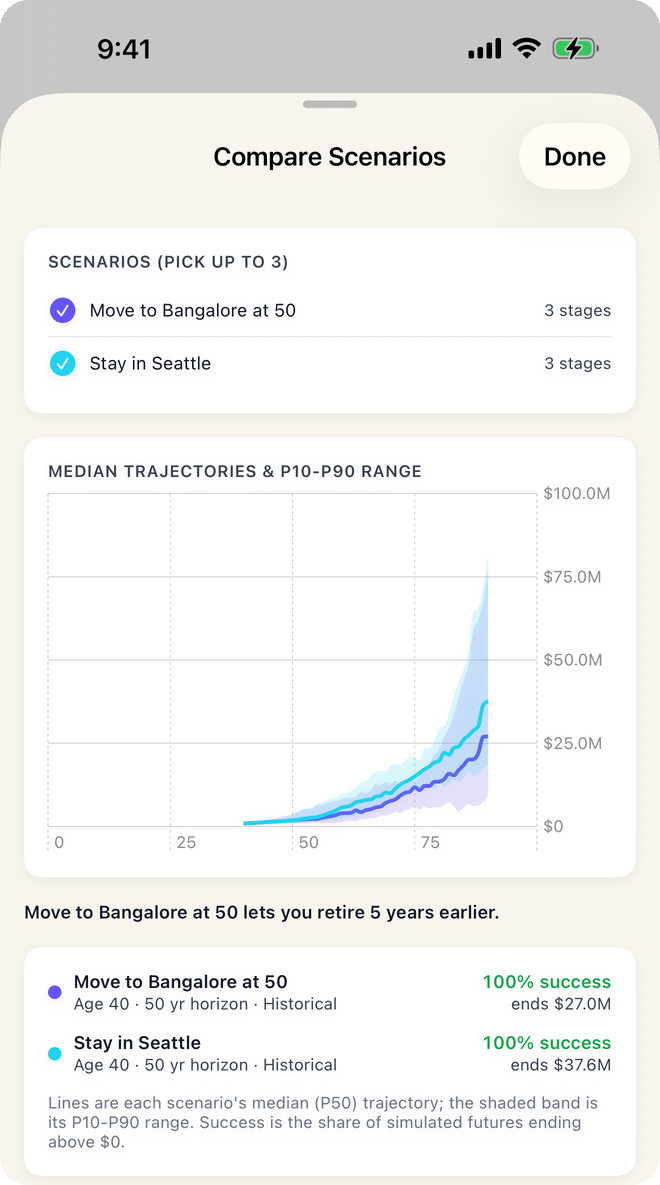
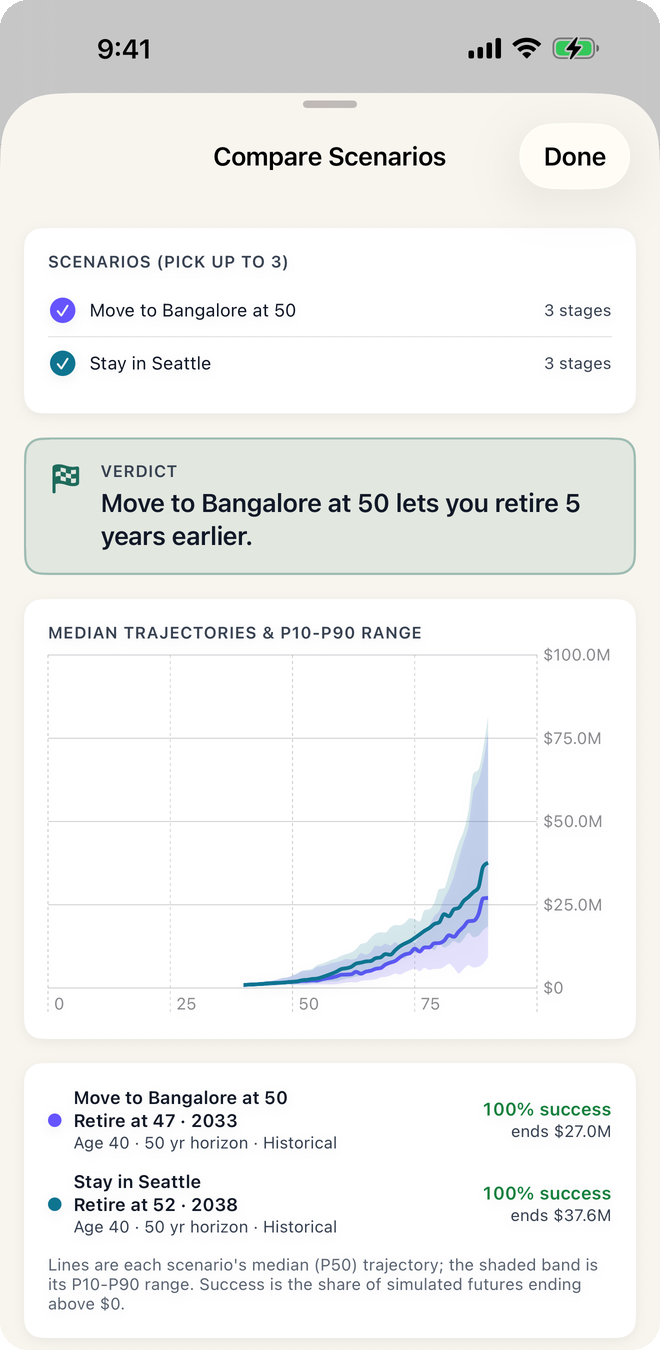
Sync site from Sanchaya@fddb978

diff --git a/retire-in-india-vs-us.html b/retire-in-india-vs-us.html
@@ -186,11 +186,11 @@
   <li>On <strong>My Plan</strong>, make sure your working-years stage ends at the age you would move. Add a second location stage for Bangalore, or any of the 49 cities, from that age to the end, with zero income.</li>
   <li>Add a <strong>Social Security</strong> or <strong>pension</strong> overlay with your own estimate and start age.</li>
   <li>On <strong>Scenarios</strong>, duplicate the plan, and in the copy change the move age or remove the move entirely.</li>
-  <li>Select both and tap <strong>Compare</strong>. The winner line tells you which plan retires earlier, and the overlay shows both fans together. Then try the "Move abroad" and "Market crash" chips on either plan.</li>
+  <li>Select both and tap <strong>Compare</strong>. The verdict at the top tells you which plan retires earlier, each row shows its retirement age and year, and the overlay shows both fans together. Then try the "Move abroad" and "Market crash" chips on either plan.</li>
 </ol>
 <figure class="shot">
-  <img src="./screenshots/example-compare.png" width="330" height="593" loading="lazy" alt="Bhavitta's Compare Scenarios sheet with Move to Bangalore at 50 and Stay in Seattle selected: the two median trajectories with their P10 to P90 bands, the line 'Move to Bangalore at 50 lets you retire 5 years earlier', and 100% success for both.">
-  <figcaption><strong>And this is step 5, Compare.</strong> Both plans on one chart, each with its median line and P10 to P90 band. The line under the chart says "Move to Bangalore at 50 lets you retire 5 years earlier", which is 52 minus 47. The "ends" figures are nominal dollars at age 90, not today's money, so they are larger than the today's-dollar balances in the tables.</figcaption>
+  <img src="./screenshots/example-compare.png" width="330" height="675" loading="lazy" alt="Bhavitta's Compare Scenarios sheet with Move to Bangalore at 50 and Stay in Seattle selected: a verdict card reading 'Move to Bangalore at 50 lets you retire 5 years earlier', the two median trajectories with their P10 to P90 bands, and rows showing retire at 47 (2033) versus 52 (2038) with 100% success for both.">
+  <figcaption><strong>And this is step 5, Compare.</strong> The verdict card at the top says "Move to Bangalore at 50 lets you retire 5 years earlier", which is 52 minus 47, and the rows under the chart spell it out: retire at 47 (2033) against 52 (2038). Both plans are on one chart, each with its median line and P10 to P90 band. The "ends" figures are nominal dollars at age 90, not today's money, so they are larger than the today's-dollar balances in the tables.</figcaption>
 </figure>
 <div class="callout warn"><strong>Educational, not advice.</strong> The numbers above are the engine's output for one invented household using Bhavitta's default assumptions and its own cost-of-living estimates. They are not a forecast and not a recommendation to move, stay, or retire at any age. For your own decision, run your own numbers and talk to an adviser who knows both tax systems.</div>
 

diff --git a/how-it-works.html b/how-it-works.html
@@ -174,8 +174,8 @@
 <h2>6. Changing one thing</h2>
 <p>Three sliders under the score, starting corpus, retirement age and yearly spending, re-run the whole simulation on release and show the before and after. The <strong>what-if chips</strong> apply a named shock: a job loss (income gap), a market crash (a forced drawdown in a chosen year, applied identically to every trial and window), retiring earlier or later, a move abroad, a big expense. <strong>Compare</strong> overlays up to three scenarios and, with two selected, writes a one-line verdict such as "Moving to Bangalore at 50 lets you retire 4 years earlier", using retirement age first and survival rate as the tie-break.</p>
 <figure class="shot">
-  <img src="./screenshots/example-compare.png" width="330" height="593" loading="lazy" alt="Bhavitta's Compare Scenarios sheet with two plans selected, showing both median trajectories and the line that says which plan retires earlier.">
-  <figcaption><strong>Compare, in the app.</strong> Two plans on one chart with the one-line verdict under it. The Seattle vs Bangalore guide walks through this example in full.</figcaption>
+  <img src="./screenshots/example-compare.png" width="330" height="675" loading="lazy" alt="Bhavitta's Compare Scenarios sheet with two plans selected, led by a verdict card that says which plan retires earlier, then both median trajectories and each plan's retirement age and year.">
+  <figcaption><strong>Compare, in the app.</strong> The verdict leads, then two plans on one chart, with each plan's retirement age and year. The Seattle vs Bangalore guide walks through this example in full.</figcaption>
 </figure>
 
 <p>The <strong>stress test</strong> is a five-by-five grid: expected return from two points below to two points above your baseline, inflation from one and a half points below to above, 200 trials per cell, coloured by survival. It shows which of the two assumptions your plan is actually sensitive to.</p>
